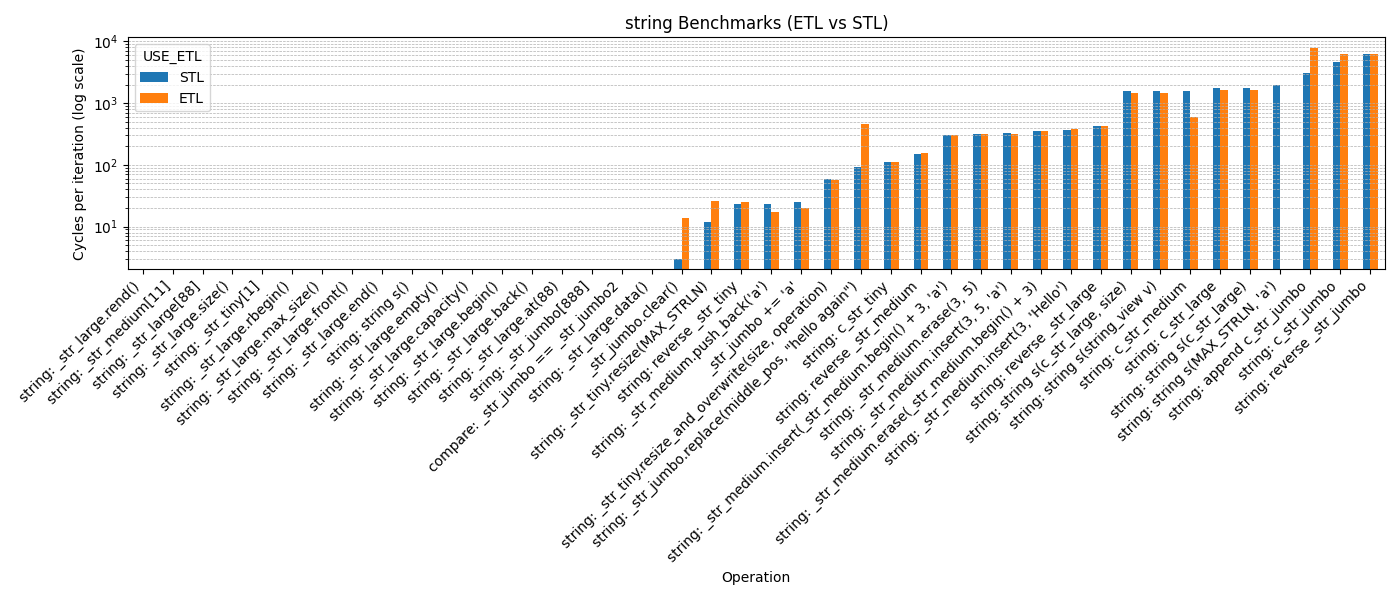
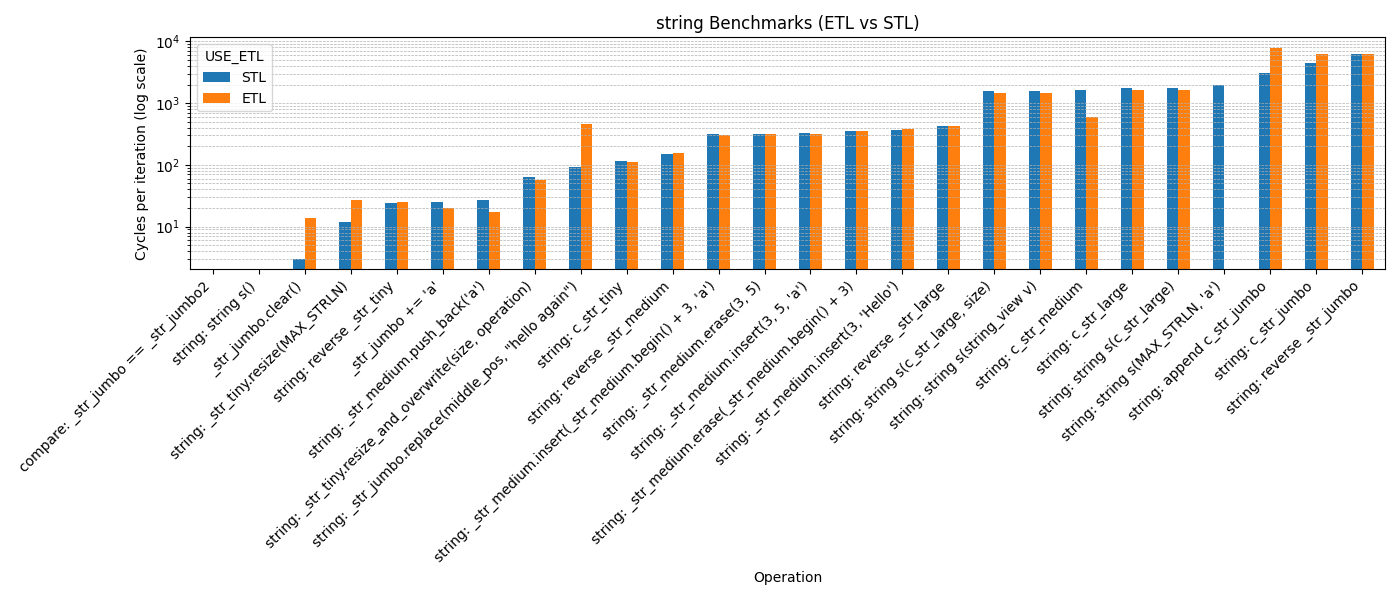
removed trivial string tests that get optimized away

diff --git a/Benchmarks/main/string/string.cpp b/Benchmarks/main/string/string.cpp
@@ -129,101 +129,101 @@ string_benchmark(uint32_t cycles)
         "string: c_str_jumbo"
     );
 
-     CYCLE_GET_COUNT_RETURN(
-        _str_tiny[1],
-        cycles,
-        "string: _str_tiny[1]"
-    );
+    //  CYCLE_GET_COUNT_RETURN(
+    //     _str_tiny[1],
+    //     cycles,
+    //     "string: _str_tiny[1]"
+    // );
 
-    CYCLE_GET_COUNT_RETURN(
-        _str_medium[11],
-        cycles,
-        "string: _str_medium[11]"
-    );
+    // CYCLE_GET_COUNT_RETURN(
+    //     _str_medium[11],
+    //     cycles,
+    //     "string: _str_medium[11]"
+    // );
 
-    CYCLE_GET_COUNT_RETURN(
-        _str_large[88],
-        cycles,
-        "string: _str_large[88]"
-    );
+    // CYCLE_GET_COUNT_RETURN(
+    //     _str_large[88],
+    //     cycles,
+    //     "string: _str_large[88]"
+    // );
 
-    CYCLE_GET_COUNT_RETURN(
-        _str_jumbo[888],
-        cycles,
-        "string: _str_jumbo[888]"
-    );
+    // CYCLE_GET_COUNT_RETURN(
+    //     _str_jumbo[888],
+    //     cycles,
+    //     "string: _str_jumbo[888]"
+    // );
 
-    CYCLE_GET_COUNT_RETURN(
-        _str_large.at(88),
-        cycles,
-        "string: _str_large.at(88)"
-    );
+    // CYCLE_GET_COUNT_RETURN(
+    //     _str_large.at(88),
+    //     cycles,
+    //     "string: _str_large.at(88)"
+    // );
 
-    CYCLE_GET_COUNT_RETURN(
-        _str_large.front(),
-        cycles,
-        "string: _str_large.front()"
-    );
+    // CYCLE_GET_COUNT_RETURN(
+    //     _str_large.front(),
+    //     cycles,
+    //     "string: _str_large.front()"
+    // );
 
-    CYCLE_GET_COUNT_RETURN(
-        _str_large.back(),
-        cycles,
-        "string: _str_large.back()"
-    );
+    // CYCLE_GET_COUNT_RETURN(
+    //     _str_large.back(),
+    //     cycles,
+    //     "string: _str_large.back()"
+    // );
 
-    CYCLE_GET_COUNT_RETURN(
-        _str_large.begin(),
-        cycles,
-        "string: _str_large.begin()"
-    ); 
+    // CYCLE_GET_COUNT_RETURN(
+    //     _str_large.begin(),
+    //     cycles,
+    //     "string: _str_large.begin()"
+    // ); 
 
-    CYCLE_GET_COUNT_RETURN(
-        _str_large.end(),
-        cycles,
-        "string: _str_large.end()"
-    );
+    // CYCLE_GET_COUNT_RETURN(
+    //     _str_large.end(),
+    //     cycles,
+    //     "string: _str_large.end()"
+    // );
 
-    CYCLE_GET_COUNT_RETURN(
-        _str_large.rbegin(),
-        cycles,
-        "string: _str_large.rbegin()"
-    );
+    // CYCLE_GET_COUNT_RETURN(
+    //     _str_large.rbegin(),
+    //     cycles,
+    //     "string: _str_large.rbegin()"
+    // );
 
-    CYCLE_GET_COUNT_RETURN(
-        _str_large.rend(),
-        cycles,
-        "string: _str_large.rend()"
-    );
+    // CYCLE_GET_COUNT_RETURN(
+    //     _str_large.rend(),
+    //     cycles,
+    //     "string: _str_large.rend()"
+    // );
     
-    CYCLE_GET_COUNT_RETURN(
-        _str_large.data(),
-        cycles,
-        "string: _str_large.data()"
-    );
+    // CYCLE_GET_COUNT_RETURN(
+    //     _str_large.data(),
+    //     cycles,
+    //     "string: _str_large.data()"
+    // );
 
-    CYCLE_GET_COUNT_RETURN(
-        _str_large.empty(),
-        cycles,
-        "string: _str_large.empty()"
-    );
+    // CYCLE_GET_COUNT_RETURN(
+    //     _str_large.empty(),
+    //     cycles,
+    //     "string: _str_large.empty()"
+    // );
 
-    CYCLE_GET_COUNT_RETURN(
-        _str_large.max_size(),
-        cycles,
-        "string: _str_large.max_size()"
-    );
+    // CYCLE_GET_COUNT_RETURN(
+    //     _str_large.max_size(),
+    //     cycles,
+    //     "string: _str_large.max_size()"
+    // );
 
-    CYCLE_GET_COUNT_RETURN(
-        _str_large.capacity(),
-        cycles,
-        "string: _str_large.capacity()"
-    );
+    // CYCLE_GET_COUNT_RETURN(
+    //     _str_large.capacity(),
+    //     cycles,
+    //     "string: _str_large.capacity()"
+    // );
 
-    CYCLE_GET_COUNT_RETURN(
-        _str_large.size(),
-        cycles,
-        "string: _str_large.size()"
-    );
+    // CYCLE_GET_COUNT_RETURN(
+    //     _str_large.size(),
+    //     cycles,
+    //     "string: _str_large.size()"
+    // );
 
     CYCLE_GET_COUNT(
         _str_tiny.resize(MAX_STRLN),
